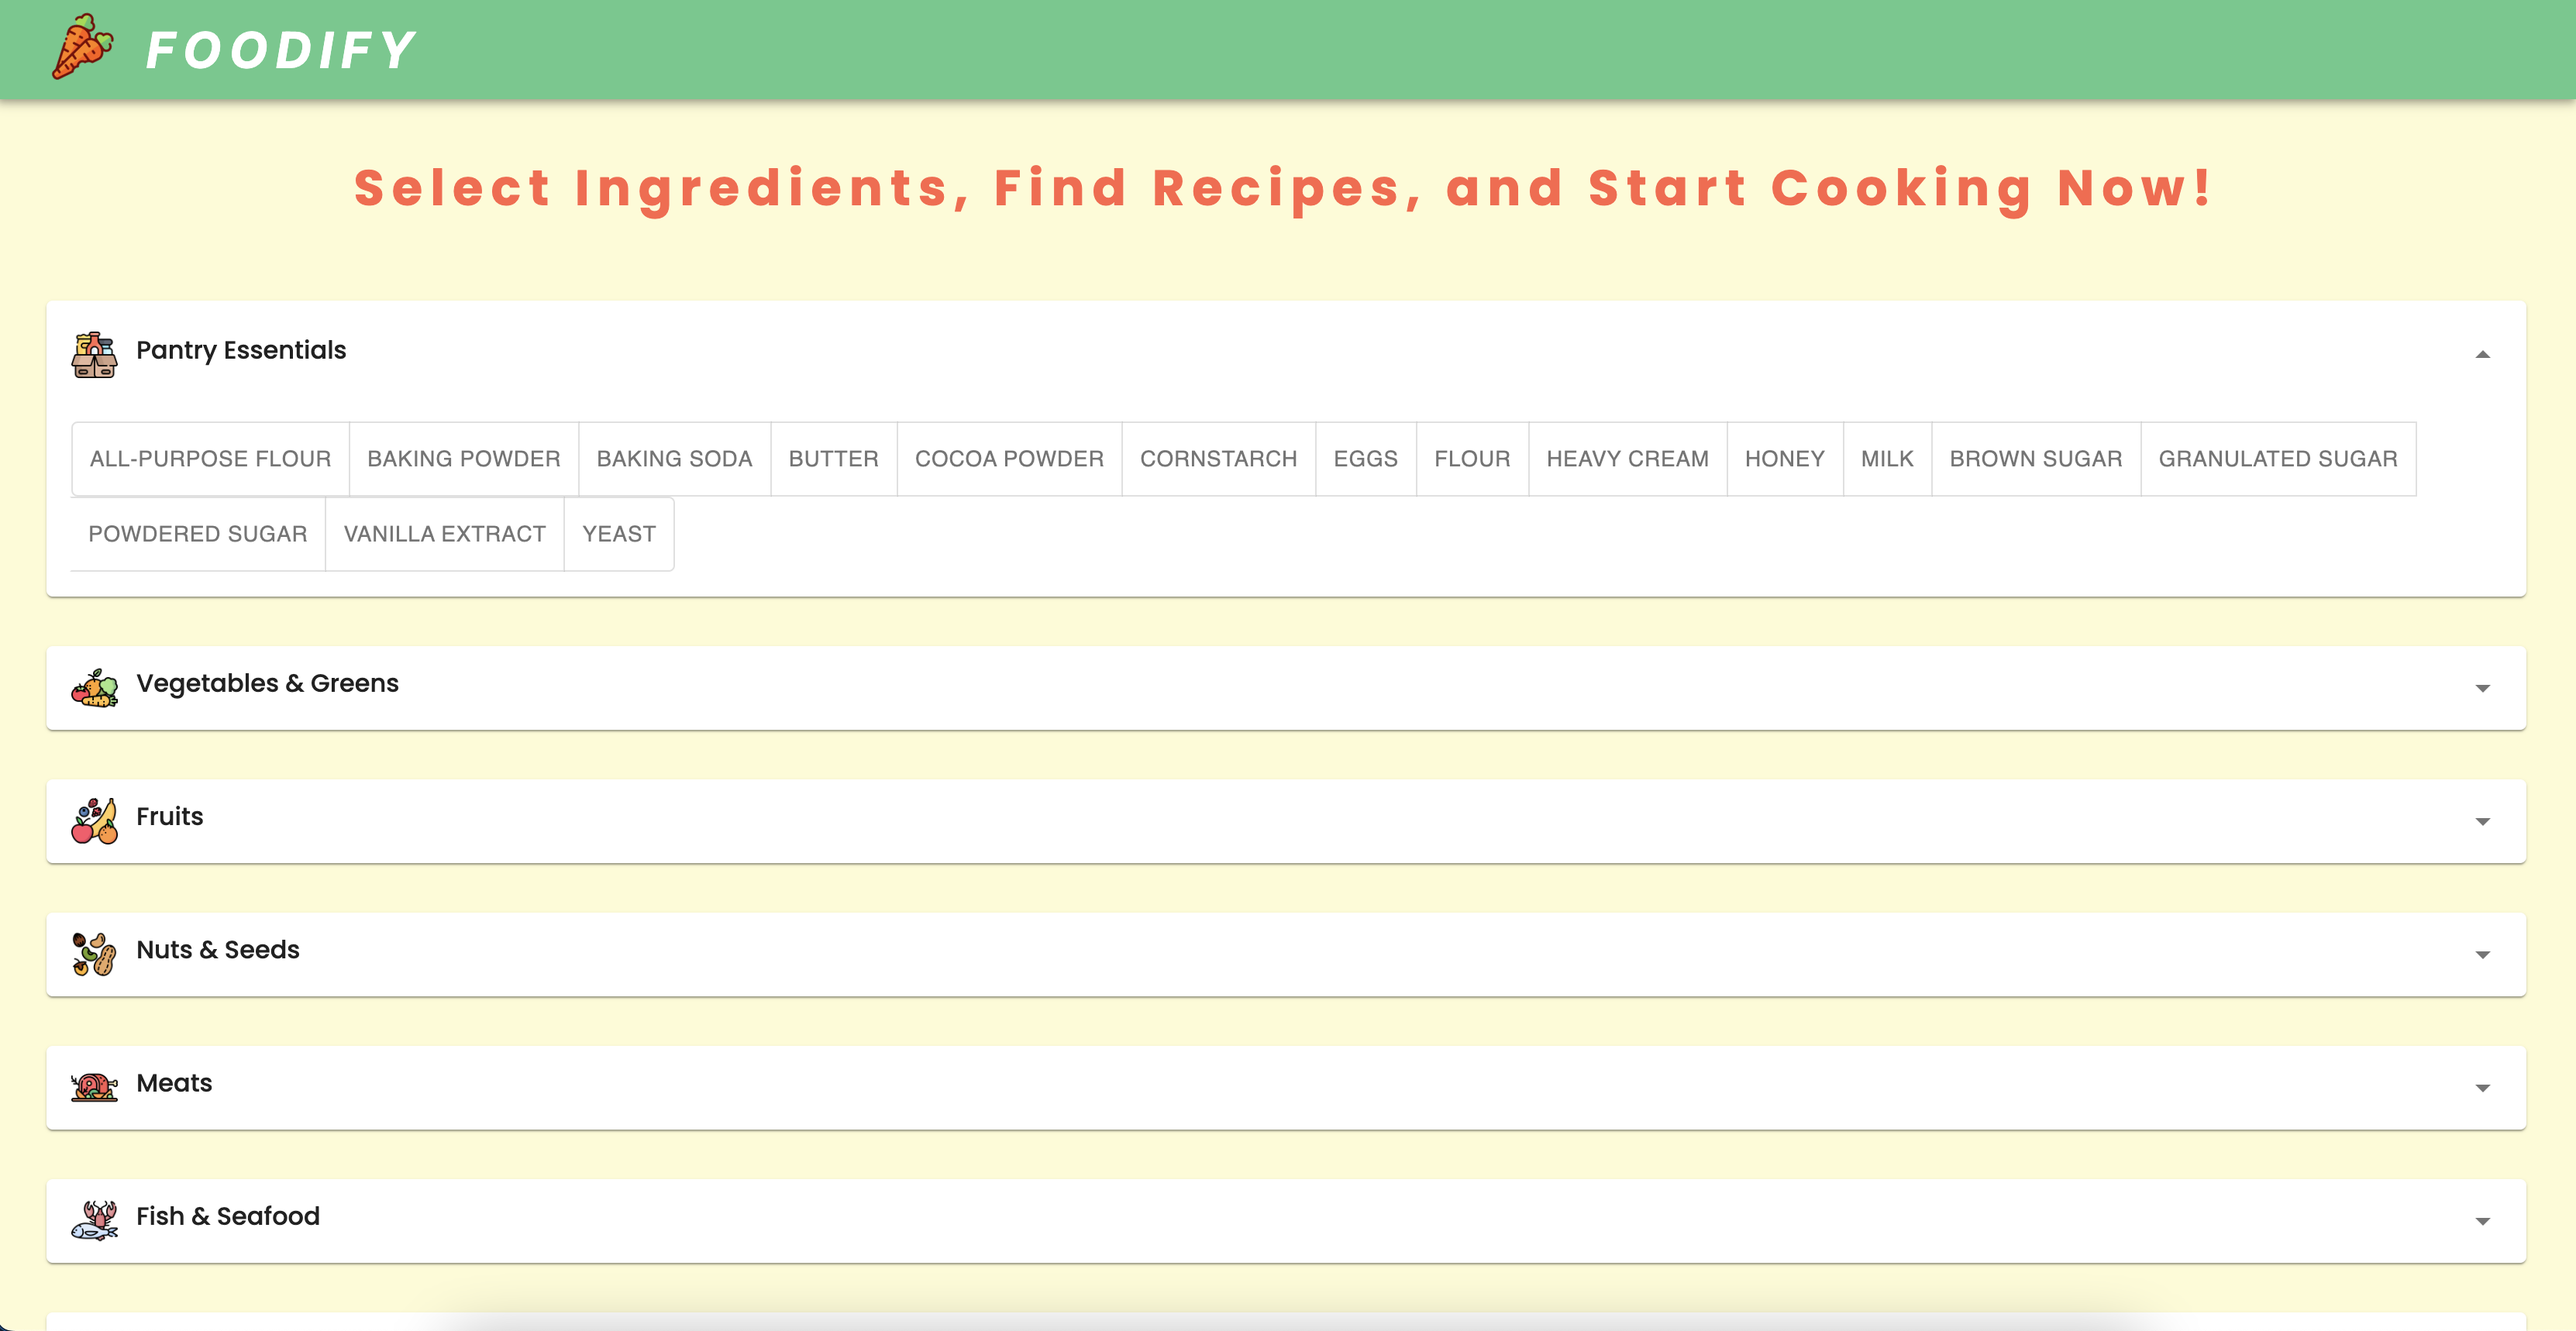
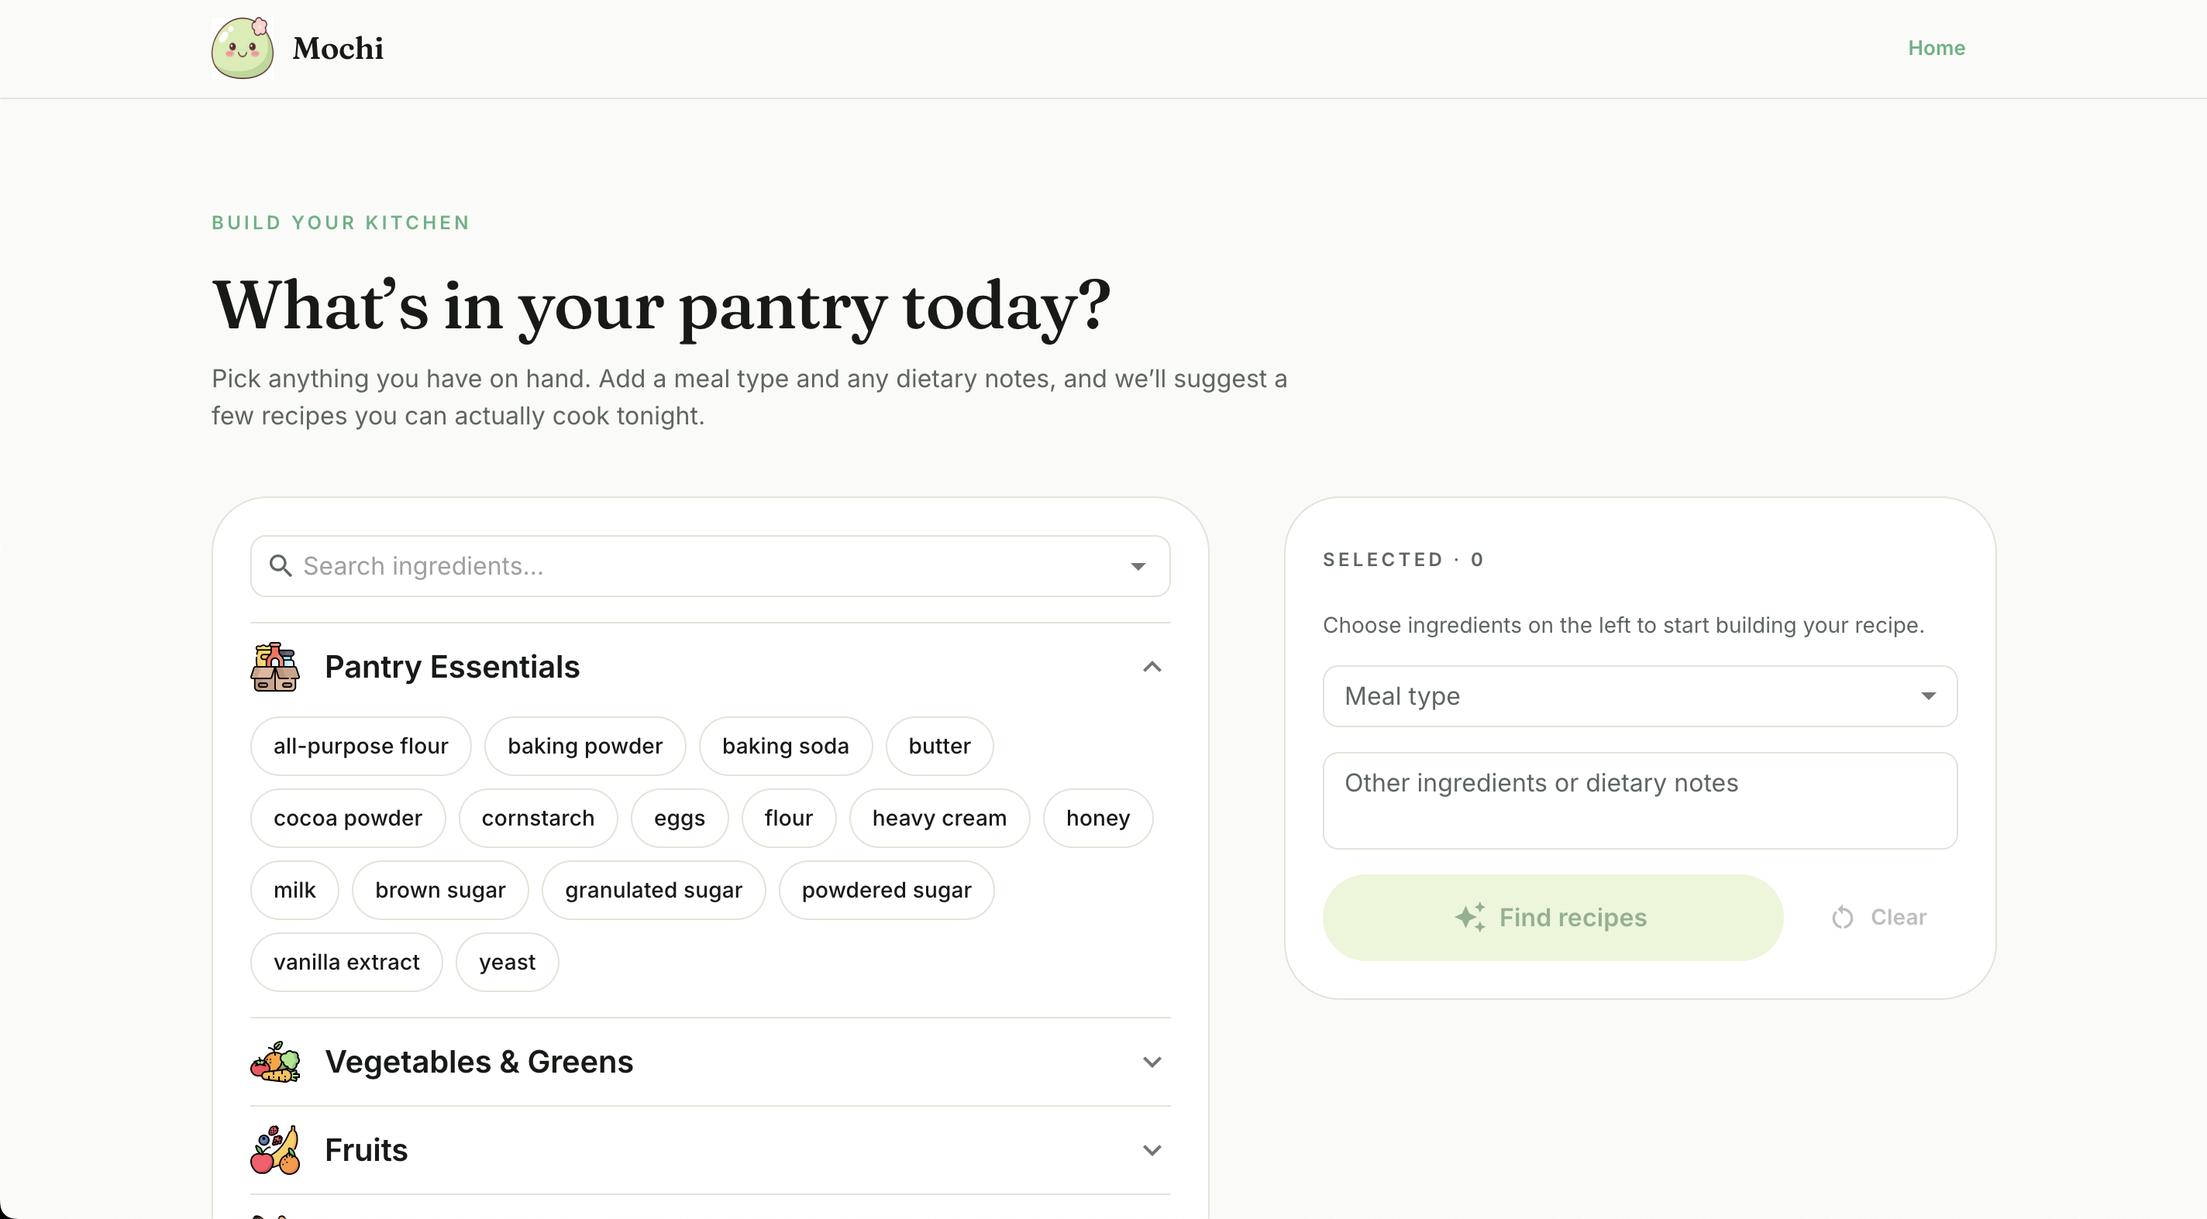
Final rebrand

diff --git a/src/theme.js b/src/theme.js
@@ -1,9 +1,11 @@
 import { createTheme, alpha } from '@mui/material/styles';
 
 const palette = {
-  forest: '#1F4D2C',
-  forestDark: '#143820',
-  forestSoft: '#2F6A3D',
+  sage: '#59b381',
+  sageDark: '#2C6B47',
+  sageSoft: '#7DA88B',
+  mochi: '#D6EEB1',
+  mochiHover: '#C2E193',
   amber: '#B8845A',
   bg: '#FAFAF7',
   paper: '#FFFFFF',
@@ -16,9 +18,9 @@ const theme = createTheme({
   palette: {
     mode: 'light',
     primary: {
-      main: palette.forest,
-      dark: palette.forestDark,
-      light: palette.forestSoft,
+      main: palette.sage,
+      dark: palette.sageDark,
+      light: palette.mochi,
       contrastText: '#FFFFFF',
     },
     secondary: {
@@ -116,8 +118,14 @@ const theme = createTheme({
           fontSize: '1rem',
         },
         containedPrimary: {
+          backgroundColor: palette.mochi,
+          color: palette.sageDark,
           boxShadow: 'none',
-          '&:hover': { backgroundColor: palette.forestDark, boxShadow: 'none' },
+          '&:hover': { backgroundColor: palette.mochiHover, boxShadow: 'none' },
+          '&.Mui-disabled': {
+            backgroundColor: alpha(palette.mochi, 0.5),
+            color: alpha(palette.sageDark, 0.5),
+          },
         },
       },
     },
@@ -134,15 +142,15 @@ const theme = createTheme({
           color: palette.ink,
           transition: 'all 160ms ease',
           '&:hover': {
-            backgroundColor: alpha(palette.forest, 0.04),
-            borderColor: alpha(palette.forest, 0.3),
+            backgroundColor: alpha(palette.sage, 0.04),
+            borderColor: alpha(palette.sage, 0.3),
           },
           '&.Mui-selected': {
-            backgroundColor: palette.forest,
+            backgroundColor: palette.sage,
             color: '#FFFFFF',
-            borderColor: palette.forest,
+            borderColor: palette.sage,
             '&:hover': {
-              backgroundColor: palette.forestDark,
+              backgroundColor: palette.sageDark,
             },
           },
         },

diff --git a/index.html b/index.html
@@ -2,14 +2,14 @@
 <html lang="en">
   <head>
     <meta charset="utf-8" />
-    <link rel="icon" href="/foodify.png" />
+    <link rel="icon" href="/mochi.png" />
     <meta name="viewport" content="width=device-width, initial-scale=1" />
-    <meta name="theme-color" content="#1F4D2C" />
+    <meta name="theme-color" content="#3D8A5F" />
     <meta
       name="description"
-      content="Foodify: turn the ingredients you already have into recipe ideas."
+      content="Mochi: turn the ingredients you already have into recipe ideas."
     />
-    <link rel="apple-touch-icon" href="/foodify.png" />
+    <link rel="apple-touch-icon" href="/mochi.png" />
     <link rel="manifest" href="/manifest.json" />
     <script async src="https://www.googletagmanager.com/gtag/js?id=G-HBTZTC6N16"></script>
     <script>
@@ -18,7 +18,7 @@
       gtag('js', new Date());
       gtag('config', 'G-HBTZTC6N16');
     </script>
-    <title>Foodify: Recipes from what you have</title>
+    <title>Mochi: Recipes from what you have</title>
   </head>
   <body>
     <noscript>You need to enable JavaScript to run this app.</noscript>

diff --git a/src/components/SplashPage.jsx b/src/components/SplashPage.jsx
@@ -32,7 +32,7 @@ const SplashPage = () => {
           position: 'absolute',
           inset: 0,
           background:
-            'radial-gradient(60% 60% at 20% 0%, rgba(31,77,44,0.07) 0%, rgba(31,77,44,0) 70%), radial-gradient(50% 50% at 90% 30%, rgba(184,132,90,0.08) 0%, rgba(184,132,90,0) 70%)',
+            'radial-gradient(60% 60% at 20% 0%, rgba(214,238,177,0.45) 0%, rgba(214,238,177,0) 70%), radial-gradient(50% 50% at 90% 30%, rgba(61,138,95,0.10) 0%, rgba(61,138,95,0) 70%)',
           pointerEvents: 'none',
         }}
       />
@@ -52,7 +52,7 @@ const SplashPage = () => {
           </Typography>
 
           <Typography variant="body1" sx={{ fontSize: '1.125rem', color: 'text.secondary', maxWidth: 580 }}>
-            Foodify takes the ingredients already in your kitchen and suggests recipes you can actually make
+            Mochi takes the ingredients already in your kitchen and suggests recipes you can actually make
             tuned to your meal of choice and any dietary preferences.
           </Typography>
 

diff --git a/src/components/RecipeResponse.jsx b/src/components/RecipeResponse.jsx
@@ -5,21 +5,21 @@ import Markdown from 'react-markdown';
 
 const RECIPE_SOURCES = {
   primary: {
-    name: 'AllRecipes',
-    url: (q) => `https://www.allrecipes.com/search?q=${encodeURIComponent(q)}`,
+    name: 'BBC Good Food',
+    url: (q) => `https://www.bbcgoodfood.com/search?q=${encodeURIComponent(q)}`,
   },
   alternates: [
-    {
-      name: 'Bon Appétit',
-      url: (q) => `https://www.bonappetit.com/search?q=${encodeURIComponent(q)}`,
-    },
     {
       name: 'Serious Eats',
       url: (q) => `https://www.seriouseats.com/search?q=${encodeURIComponent(q)}`,
     },
     {
-      name: 'Tasty',
-      url: (q) => `https://tasty.co/search?q=${encodeURIComponent(q)}`,
+      name: 'Bon Appétit',
+      url: (q) => `https://www.bonappetit.com/search?q=${encodeURIComponent(q)}`,
+    },
+    {
+      name: 'Simply Recipes',
+      url: (q) => `https://www.simplyrecipes.com/?s=${encodeURIComponent(q)}`,
     },
   ],
 };

diff --git a/src/components/Header.jsx b/src/components/Header.jsx
@@ -16,15 +16,15 @@ const Header = () => {
           >
             <Box
               component="img"
-              src="/foodify.png"
-              alt="Foodify"
-              sx={{ width: 36, height: 36, transform: 'rotate(45deg)' }}
+              src="/mochi.png"
+              alt="Mochi"
+              sx={{ width: 40, height: 40 }}
             />
             <Typography
               variant="h6"
               sx={{ fontFamily: '"Fraunces", serif', fontWeight: 600, letterSpacing: '-0.01em' }}
             >
-              Foodify
+              Mochi
             </Typography>
           </Box>
 

diff --git a/src/components/Footer.jsx b/src/components/Footer.jsx
@@ -20,7 +20,7 @@ const Footer = () => {
           spacing={1}
         >
           <Typography variant="body2" color="text.secondary">
-            © {new Date().getFullYear()} Foodify
+            © {new Date().getFullYear()} Mochi
           </Typography>
           <Typography variant="body2" color="text.secondary">
             Always cook with care

diff --git a/src/index.css b/src/index.css
@@ -19,6 +19,6 @@ a {
 }
 
 ::selection {
-  background-color: #1F4D2C;
+  background-color: #3D8A5F;
   color: #FAFAF7;
 }

diff --git a/README.md b/README.md
@@ -3,7 +3,7 @@ Mochi is a web application that generates quick and creative recipes based on th
 
 ## Live Production
 
-Check out the live application here: https://foodistry.netlify.app <br />
+Check out the live application here: https://trymochi.netlify.app <br />
 Current Status: <picture>![Status](https://api.netlify.com/api/v1/badges/6559a415-f2f0-49e7-b87e-e814d8b28416/deploy-status)</picture>
 
 <picture>![alt text](https://github.com/sohan-bhat/Mochi/blob/main/screenshots/SplashPage.png)</picture>
